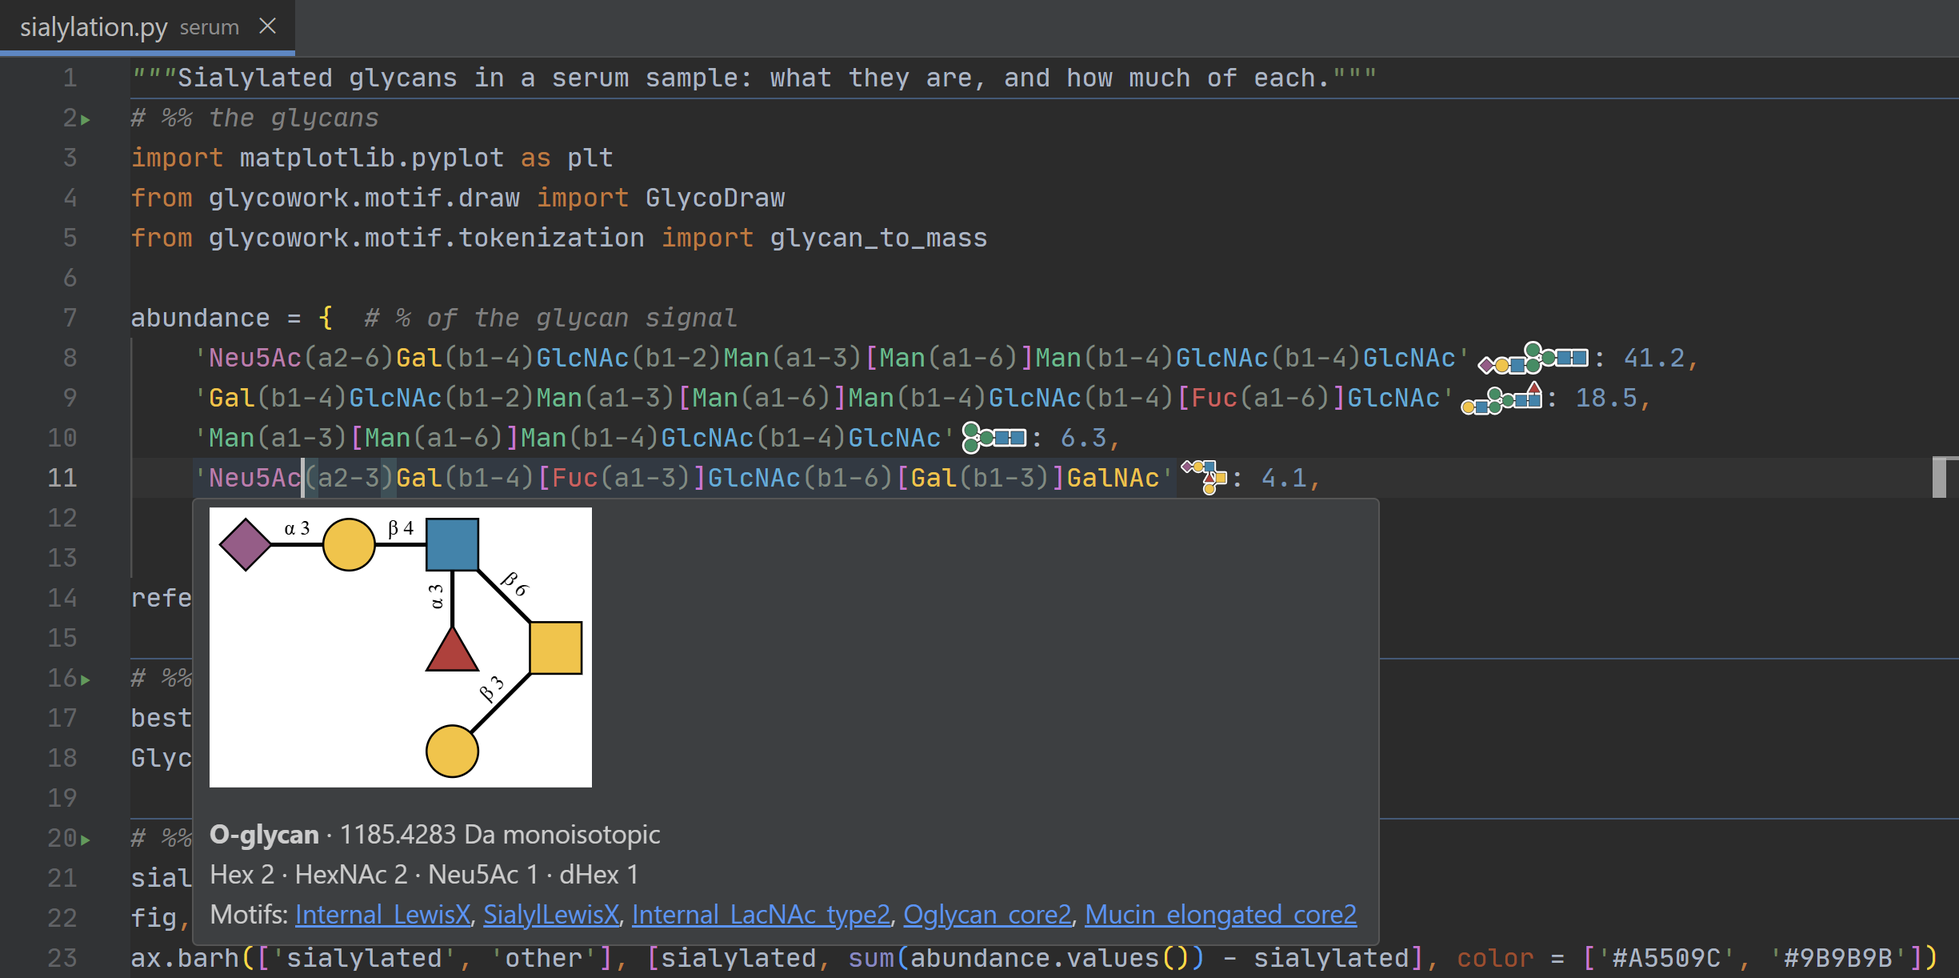
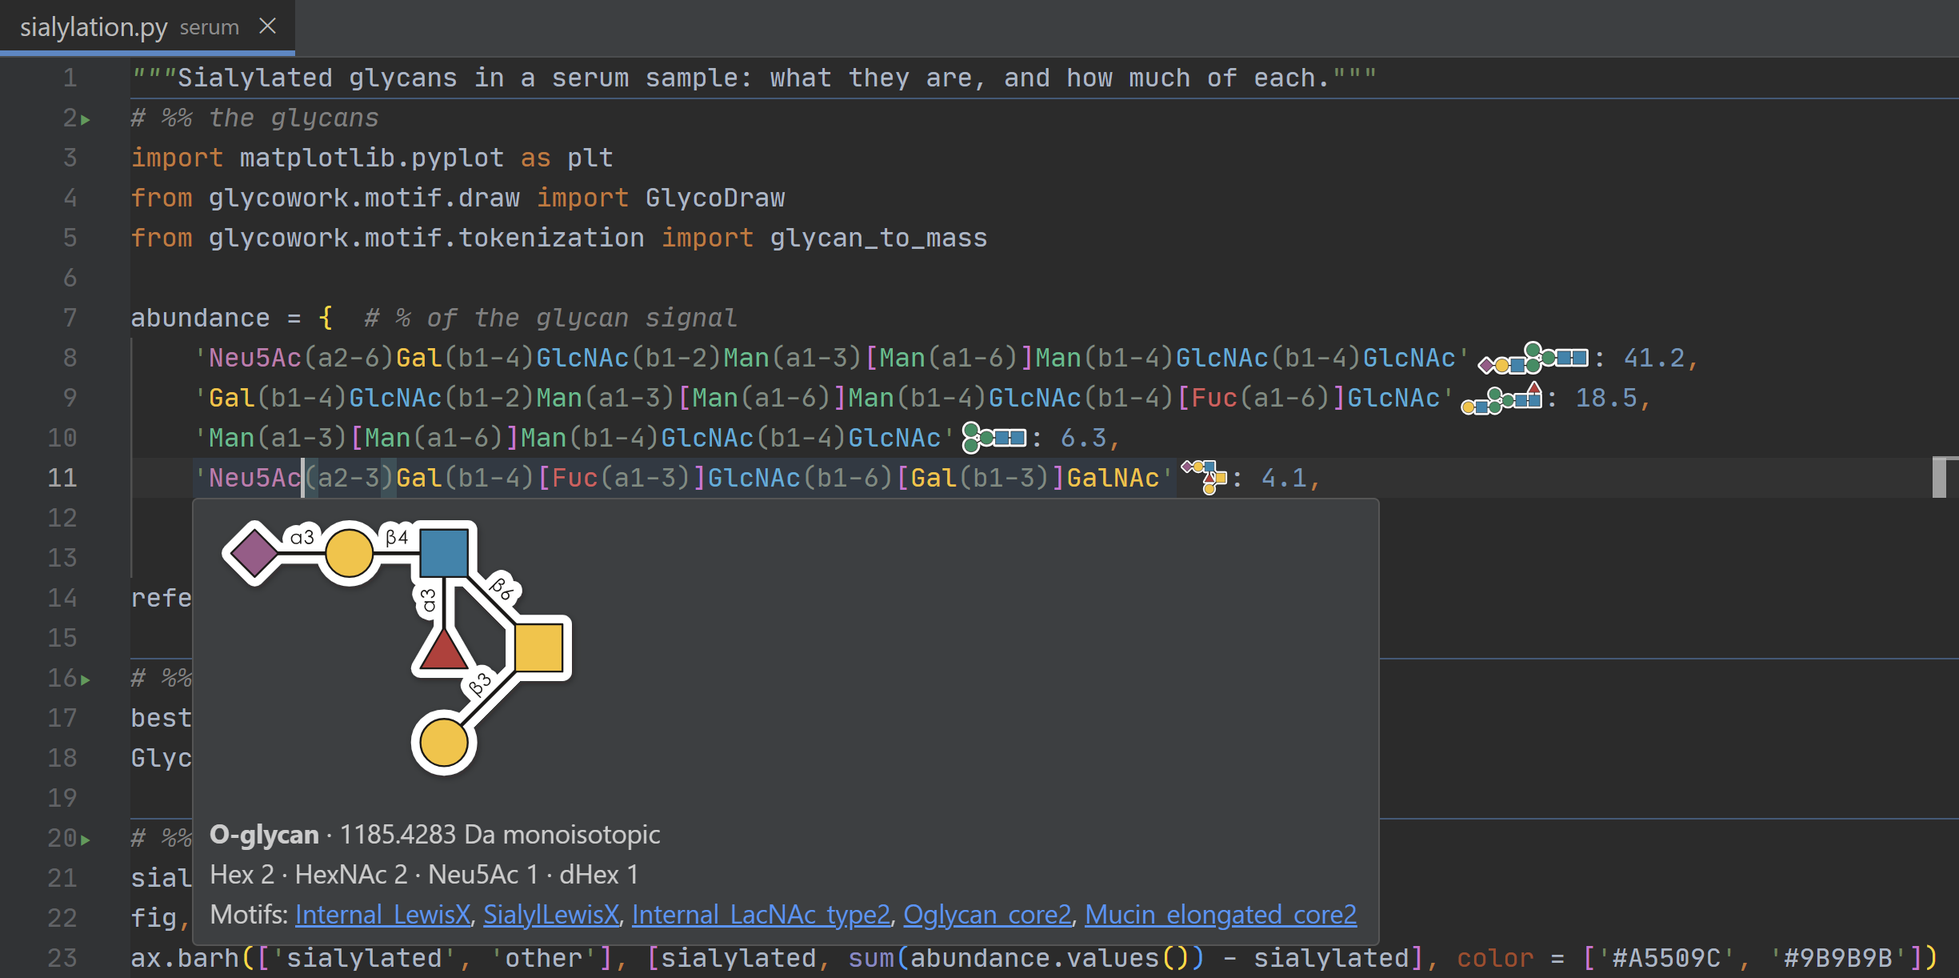
update readme screenshots

Changed region(s): [[0.0934, 0.5215, 0.3114, 0.8282]]

diff --git a/tools/shots.py b/tools/shots.py
@@ -1,17 +1,20 @@
 """The README's screenshots (docs/*.png): slate in a real window with a throwaway session, a short analysis script and
 glycowork's checkout among its folders, driven through the page and captured with PrintWindow.
 
-python tools/shots.py [--out docs]   Windows only; needs Pillow, and glycowork (1.11.1, for as_markdown) with matplotlib and
-                                     IPython for the console's Python
+python tools/shots.py [--out docs] [--behind]   Windows only; needs Pillow, and glycowork (1.11.1, for as_markdown) with
+                                                matplotlib and IPython for the console's Python
 
 Each scene is cropped to the part of the window it is about and saved at twice its CSS size (at most the screen's own
 scaling), so it stays sharp on high-resolution screens. The window stays on top while it runs, since Chromium draws no
-frames for a covered window. Prints the files written and exits 1 when a scene did not appear.
+frames for a covered window. --behind keeps it behind every other window instead, unfocused, with Chromium's occlusion
+detection off so it still draws (as tools/bench.py --behind), for running while someone works on the same screen.
+Prints the files written and exits 1 when a scene did not appear.
 """
 import argparse
 import ctypes
 import json
 import os
+import shutil
 import sys
 import tempfile
 import threading
@@ -27,7 +30,12 @@ from slate import state
 
 ap = argparse.ArgumentParser()
 ap.add_argument('--out', default = str(ROOT / 'docs'))
+ap.add_argument('--behind', action = 'store_true', help = 'keep the window behind all others, unfocused, still drawing')
 args = ap.parse_args()
+if args.behind:
+    from slate.app import LEAN
+    flags = LEAN.split()  # one --disable-features only: Chromium keeps the last of a repeated switch, and LEAN has none
+    os.environ['WEBVIEW2_ADDITIONAL_BROWSER_ARGUMENTS'] = ' '.join(flags + ['--disable-backgrounding-occluded-windows', '--disable-features=CalculateNativeWinOcclusion'])
 OUT = Path(args.out)
 OUT.mkdir(exist_ok = True)
 GLYCOWORK = Path.home() / 'Documents' / 'glycowork'
@@ -163,6 +171,8 @@ def shoot(window, name, region):
 
 def on_top(window, value):
     """TopMost through Invoke, as in bench.py: set from this thread it can deadlock with the GUI thread over the GIL."""
+    if args.behind:
+        return
     from System import Func, Type  # pythonnet, loaded by pywebview by now
     form = window.native
     form.Invoke(Func[Type](lambda: setattr(form, 'TopMost', value)))
@@ -255,6 +265,7 @@ def run(window):
     if until(window, "document.querySelectorAll('#table-view .tv-cell .glycan').length >= 5 && 1", 'table drawings', wait = 30):
         js(window, "($('table-view').querySelectorAll('.tv-head .tv-cell')[5].click(), $('table-view').querySelectorAll('.tv-head .tv-cell')[5].click(), $('table-view').querySelector('.tv-row').click(), 1)")
         if until(window, "!!document.querySelector('#table-view .tv-drawing img') && !!document.querySelector('#table-view .tv-card p') && 1", 'table row panel', wait = 20):
+            js(window, "(document.activeElement.blur(), 1)")  # the filter box takes the focus, and drew its border and caret in the shot
             shoot(window, 'table', f"{REGION}(['#tabs', '#table-view .tv-bars'], 14, '#main')")  # down to the row's bars
     js(window, "(toggleTable(S.active, false), 1)")
     # the console, after running the script's cells
@@ -275,8 +286,23 @@ def start(*a, **kw):
     return original(*a, **kw)
 
 
+def to_back():
+    """With --behind: keep this process's window behind all others, without activating it, for as long as it is open."""
+    user32.SetWindowPos.argtypes = [wintypes.HWND, wintypes.HWND, ctypes.c_int, ctypes.c_int, ctypes.c_int, ctypes.c_int, wintypes.UINT]
+    while True:
+        try:
+            user32.SetWindowPos(handle(), wintypes.HWND(1), 0, 0, 0, 0, 0x0001 | 0x0002 | 0x0010)  # HWND_BOTTOM; no move, size or activation
+        except IndexError:
+            pass  # not shown yet, or closed
+        time.sleep(0.05)
+
+
 original = webview.start
 webview.start = start
+if args.behind:
+    create_window = webview.create_window
+    webview.create_window = lambda *a, **kw: create_window(*a, **{**kw, 'focus': False})
+    threading.Thread(target = to_back, daemon = True).start()
 sys.argv = sys.argv[:1]
 from slate.app import Api, main
 Api.set_background = lambda self, background: None  # this window never has keyboard focus, and its blur would lower WebView2's memory target
@@ -285,4 +311,11 @@ main()
 print('\n'.join(written), flush = True)
 if failed:
     print('failed:', '; '.join(failed), flush = True)
+for _ in range(20):  # as in smoke.py: WebView2's processes let go of the profile in HOME a moment after the window closes
+    shutil.rmtree(HOME, ignore_errors = True)
+    if not HOME.exists():
+        break
+    time.sleep(0.5)
+else:
+    print(f'shots: could not remove {HOME}', file = sys.stderr, flush = True)
 sys.exit(1 if failed else 0)
